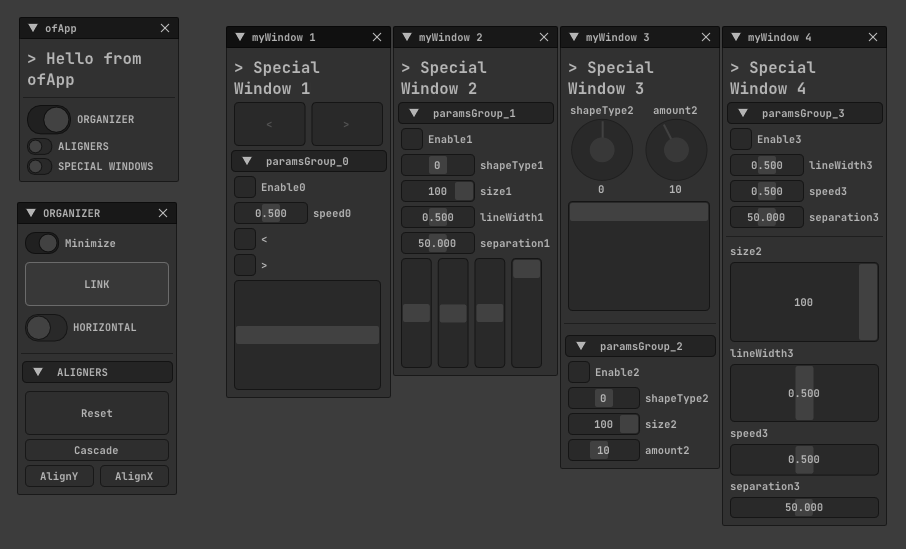
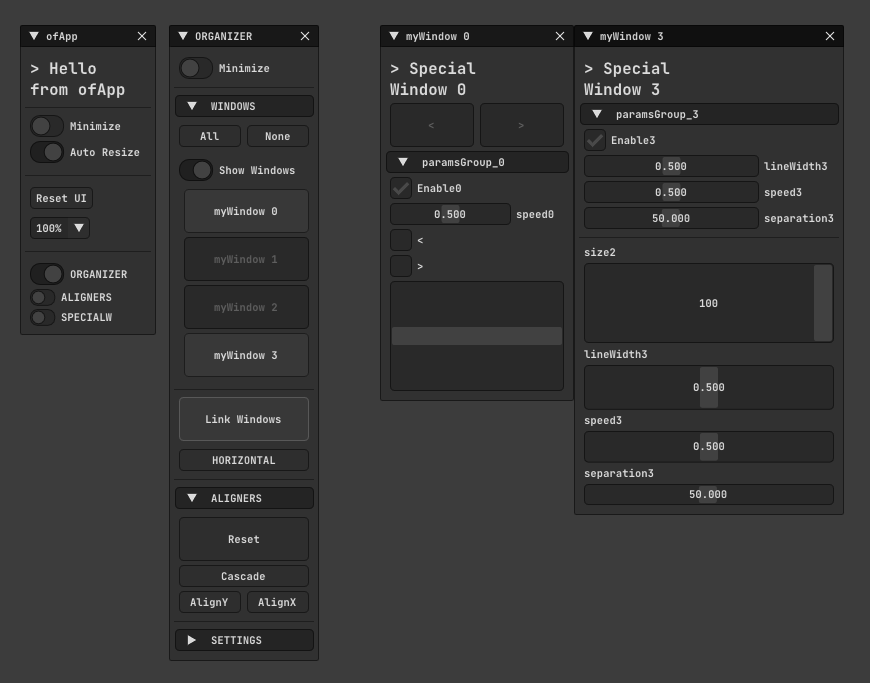
'

diff --git a/src/ImGui/WindowsOrganizer.h b/src/ImGui/WindowsOrganizer.h
@@ -1259,22 +1259,6 @@ namespace ofxImGuiSurfing
 			float _w1 = getWidgetsWidth(1);
 			float _w2 = getWidgetsWidth(2);
 
-			// Enable
-			ofxImGuiSurfing::AddBigToggle(bLinked, _w1, 2 * _h, true, true); //blinking
-
-			ofxImGuiSurfing::AddSpacing();
-
-			if (bLinked)
-			{
-				// Orientation
-				string ss = bOrientation ? "VERTICAL" : "HORIZONTAL";
-				float h = 1.25 * ImGui::GetFrameHeight();
-				float w = h * 1.55f;
-				ofxImGuiSurfing::AddToggleRoundedButton(bOrientation, ss, ImVec2(w, h));
-
-				ImGui::Spacing();
-			}
-
 			//--
 
 			// Windows
@@ -1282,8 +1266,6 @@ namespace ofxImGuiSurfing
 			if (!bMinimized && bSpecialWindowsToo) {
 				if (!bHideWindowsToggles)
 				{
-					ofxImGuiSurfing::AddSpacingSeparated();
-
 					ImGuiColorEditFlags _flagw = ImGuiWindowFlags_None;
 					//ImGuiColorEditFlags _flagw = (bDebug ? ImGuiWindowFlags_NoCollapse : ImGuiWindowFlags_None);
 
@@ -1317,7 +1299,7 @@ namespace ofxImGuiSurfing
 						// Global Enable 
 						ImGui::Spacing();
 						bool b = bGui_ShowWindowsGlobal;
-						if(!b) ofxImGuiSurfing::BeginBlinkText();
+						if (!b) ofxImGuiSurfing::BeginBlinkText();
 						ofxImGuiSurfing::AddToggleRoundedButton(bGui_ShowWindowsGlobal); //medium
 						if (!b) ofxImGuiSurfing::EndBlinkText();
 						ImGui::Spacing();
@@ -1340,133 +1322,158 @@ namespace ofxImGuiSurfing
 
 			//--
 
-			// Aligners
+			if (bGui_ShowWindowsGlobal) {
 
-			if (bAlignersToo) {
 				ofxImGuiSurfing::AddSpacingSeparated();
 
-				if (ImGui::CollapsingHeader("ALIGNERS"))
+				// Linked
+				ofxImGuiSurfing::AddBigToggle(bLinked, _w1, 2 * _h, true, true); //blinking
+
+				ofxImGuiSurfing::AddSpacing();
+
+				if (bLinked)
 				{
-					drawWidgetsAligners();
+					// Orientation
+
+					//string ss = bOrientation ? "VERTICAL" : "HORIZONTAL";
+					//float h = 1.25 * ImGui::GetFrameHeight();
+					//float w = h * 1.55f;
+					////ofxImGuiSurfing::AddToggleRoundedButton(bOrientation, ss, ImVec2(w, h));
+
+					ofxImGuiSurfing::AddToggleNamed(bOrientation, "VERTICAL", "HORIZONTAL");
+
+					//ImGui::Spacing();
 				}
-			}
 
-			//--
+				//--
 
-			// Settings
+				// Aligners
 
-			if (!bMinimized)
-			{
-				// Controls
-				{
+				if (bAlignersToo) {
 					ofxImGuiSurfing::AddSpacingSeparated();
 
-					ImGuiColorEditFlags _flagw = (bDebug ? ImGuiWindowFlags_NoCollapse : ImGuiWindowFlags_None);
-
-					if (ImGui::CollapsingHeader("SETTINGS", _flagw))
+					if (ImGui::CollapsingHeader("ALIGNERS"))
 					{
-						ImGui::PushItemWidth(getPanelWidth() * 0.5f);
-						{
-							ofxImGuiSurfing::AddParameter(bHeaders);
+						drawWidgetsAligners();
+					}
+				}
 
-							bool bNoLabel = false;
-							bool bRaw = 0;
-							ofxImGuiSurfing::AddStepper(pad, bNoLabel, bRaw);
+				//--
 
-							ofxImGuiSurfing::AddToggleRoundedButton(bAlignShapes);
-							if (bAlignShapes)
-							{
-								ImGui::Indent();
-								if (bOrientation) //vertical
-									ofxImGuiSurfing::AddToggleRoundedButton(bAlignShapesX);
+				// Settings
 
-								if (!bOrientation) //horizontal
-									ofxImGuiSurfing::AddToggleRoundedButton(bAlignShapesY);
-								ImGui::Unindent();
-							}
-						}
-						ImGui::PopItemWidth();
-
-						//--
-
+				if (!bMinimized)
+				{
+					// Controls
+					{
 						ofxImGuiSurfing::AddSpacingSeparated();
 
-						// Debug
+						ImGuiColorEditFlags _flagw = (bDebug ? ImGuiWindowFlags_NoCollapse : ImGuiWindowFlags_None);
 
-						ofxImGuiSurfing::AddToggleRoundedButton(bDebug);
-						ImGui::Spacing();
-						if (bDebug)
+						if (ImGui::CollapsingHeader("SETTINGS", _flagw))
 						{
-							ImGui::Indent();
+							ImGui::PushItemWidth(getPanelWidth() * 0.5f);
+							{
+								ofxImGuiSurfing::AddParameter(bHeaders);
 
+								bool bNoLabel = false;
+								bool bRaw = 0;
+								ofxImGuiSurfing::AddStepper(pad, bNoLabel, bRaw);
+
+								ofxImGuiSurfing::AddToggleRoundedButton(bAlignShapes);
+								if (bAlignShapes)
+								{
+									ImGui::Indent();
+									if (bOrientation) //vertical
+										ofxImGuiSurfing::AddToggleRoundedButton(bAlignShapesX);
+
+									if (!bOrientation) //horizontal
+										ofxImGuiSurfing::AddToggleRoundedButton(bAlignShapesY);
+									ImGui::Unindent();
+								}
+							}
+							ImGui::PopItemWidth();
+
+							//--
+
+							ofxImGuiSurfing::AddSpacingSeparated();
+
+							// Debug
+
+							ofxImGuiSurfing::AddToggleRoundedButton(bDebug);
 							ImGui::Spacing();
-							ImGui::TextWrapped("SPECIAL WINDOWS \n");
-							ofxImGuiSurfing::AddSpacingSeparated();
-							ImGui::Spacing();
-
-							// Anchor
-							std::string ss4 = "";
-							ss4 += "Anchor \n\n";
-							ss4 += ofToString(position_Anchor.get());
-							if (queueWindowsVisible.size() > 0)
+							if (bDebug)
 							{
-								int id = queueWindowsVisible[0]; // first visible windows acts as anchor!
-								ss4 += "\n";
-								ss4 += "" + ofToString(id);
+								ImGui::Indent();
+
+								ImGui::Spacing();
+								ImGui::TextWrapped("SPECIAL WINDOWS \n");
+								ofxImGuiSurfing::AddSpacingSeparated();
+								ImGui::Spacing();
+
+								// Anchor
+								std::string ss4 = "";
+								ss4 += "Anchor \n\n";
+								ss4 += ofToString(position_Anchor.get());
+								if (queueWindowsVisible.size() > 0)
+								{
+									int id = queueWindowsVisible[0]; // first visible windows acts as anchor!
+									ss4 += "\n";
+									ss4 += "" + ofToString(id);
+								}
+
+								ImGui::TextWrapped("%s", ss4.c_str());
+								ofxImGuiSurfing::AddSpacingSeparated();
+
+								// Queue visible
+								std::string ss2 = "Queue Visible \n\n";
+								for (int i = 0; i < queueWindowsVisible.size(); i++)
+								{
+									if (i != 0) ss2 += ", ";
+									ss2 += ofToString(queueWindowsVisible[i]);
+								}
+								ImGui::TextWrapped("%s", ss2.c_str());
+								ofxImGuiSurfing::AddSpacingSeparated();
+
+								// All the panels
+								std::string ss1 = "";
+								int i = 0;
+								for (auto& p : windowsPanels)
+								{
+									ss1 += "" + ofToString(i) + "";
+									ss1 += "\n";
+									ss1 += "" + ofToString(p.bGui ? "ON" : "OFF");
+									ss1 += "\n";
+									//ss1 += "id_" + ofToString(p.id) + " ";
+									//ss1 += "pos_" + ofToString(p.indexPos);
+									//ss1 += "\n";
+									ss1 += ofToString(p.getRectangle());
+									ss1 += "\n\n";
+
+									i++;
+								}
+								ImGui::TextWrapped("%s", ss1.c_str());
+								ofxImGuiSurfing::AddSpacingSeparated();
+
+								// Windows
+								std::string ss5 = "All Windows \n\n";
+								for (int i = 0; i < windowsPanels.size(); i++)
+								{
+									if (i != 0) ss5 += ", ";
+									ss5 += ofToString(windowsPanels[i].id);
+								}
+								ImGui::TextWrapped("%s", ss5.c_str());
+								ofxImGuiSurfing::AddSpacingSeparated();
+
+								ss1 = "Callbacks " + ofToString(bDISABLE_CALLBACKS ? "OFF" : "ON");
+								ImGui::TextWrapped("%s", ss1.c_str());
+
+								ImGui::Unindent();
 							}
-
-							ImGui::TextWrapped("%s", ss4.c_str());
-							ofxImGuiSurfing::AddSpacingSeparated();
-
-							// Queue visible
-							std::string ss2 = "Queue Visible \n\n";
-							for (int i = 0; i < queueWindowsVisible.size(); i++)
-							{
-								if (i != 0) ss2 += ", ";
-								ss2 += ofToString(queueWindowsVisible[i]);
-							}
-							ImGui::TextWrapped("%s", ss2.c_str());
-							ofxImGuiSurfing::AddSpacingSeparated();
-
-							// All the panels
-							std::string ss1 = "";
-							int i = 0;
-							for (auto& p : windowsPanels)
-							{
-								ss1 += "" + ofToString(i) + "";
-								ss1 += "\n";
-								ss1 += "" + ofToString(p.bGui ? "ON" : "OFF");
-								ss1 += "\n";
-								//ss1 += "id_" + ofToString(p.id) + " ";
-								//ss1 += "pos_" + ofToString(p.indexPos);
-								//ss1 += "\n";
-								ss1 += ofToString(p.getRectangle());
-								ss1 += "\n\n";
-
-								i++;
-							}
-							ImGui::TextWrapped("%s", ss1.c_str());
-							ofxImGuiSurfing::AddSpacingSeparated();
-
-							// Windows
-							std::string ss5 = "All Windows \n\n";
-							for (int i = 0; i < windowsPanels.size(); i++)
-							{
-								if (i != 0) ss5 += ", ";
-								ss5 += ofToString(windowsPanels[i].id);
-							}
-							ImGui::TextWrapped("%s", ss5.c_str());
-							ofxImGuiSurfing::AddSpacingSeparated();
-
-							ss1 = "Callbacks " + ofToString(bDISABLE_CALLBACKS ? "OFF" : "ON");
-							ImGui::TextWrapped("%s", ss1.c_str());
-
-							ImGui::Unindent();
 						}
 					}
 				}
 			}
-
 		}
 
 		//--

diff --git a/src/ImGui/GuiManager.cpp b/src/ImGui/GuiManager.cpp
@@ -419,7 +419,8 @@ void SurfingGuiManager::setupInitiate()
 		//--
 
 		// Some internal settings
-		path_AppSettings = path_Global + nameLabel + "_UI_" + bGui_LayoutsPanels.getName() + ".json";
+		path_AppSettings = path_Global + nameLabel + "_UI_Internal.json";
+		//path_AppSettings = path_Global + nameLabel + "_UI_" + bGui_LayoutsPanels.getName() + ".json";
 		// this allow multiple add-ons instances with non shared settings.
 
 		params_AppSettings.add(params_Advanced);
